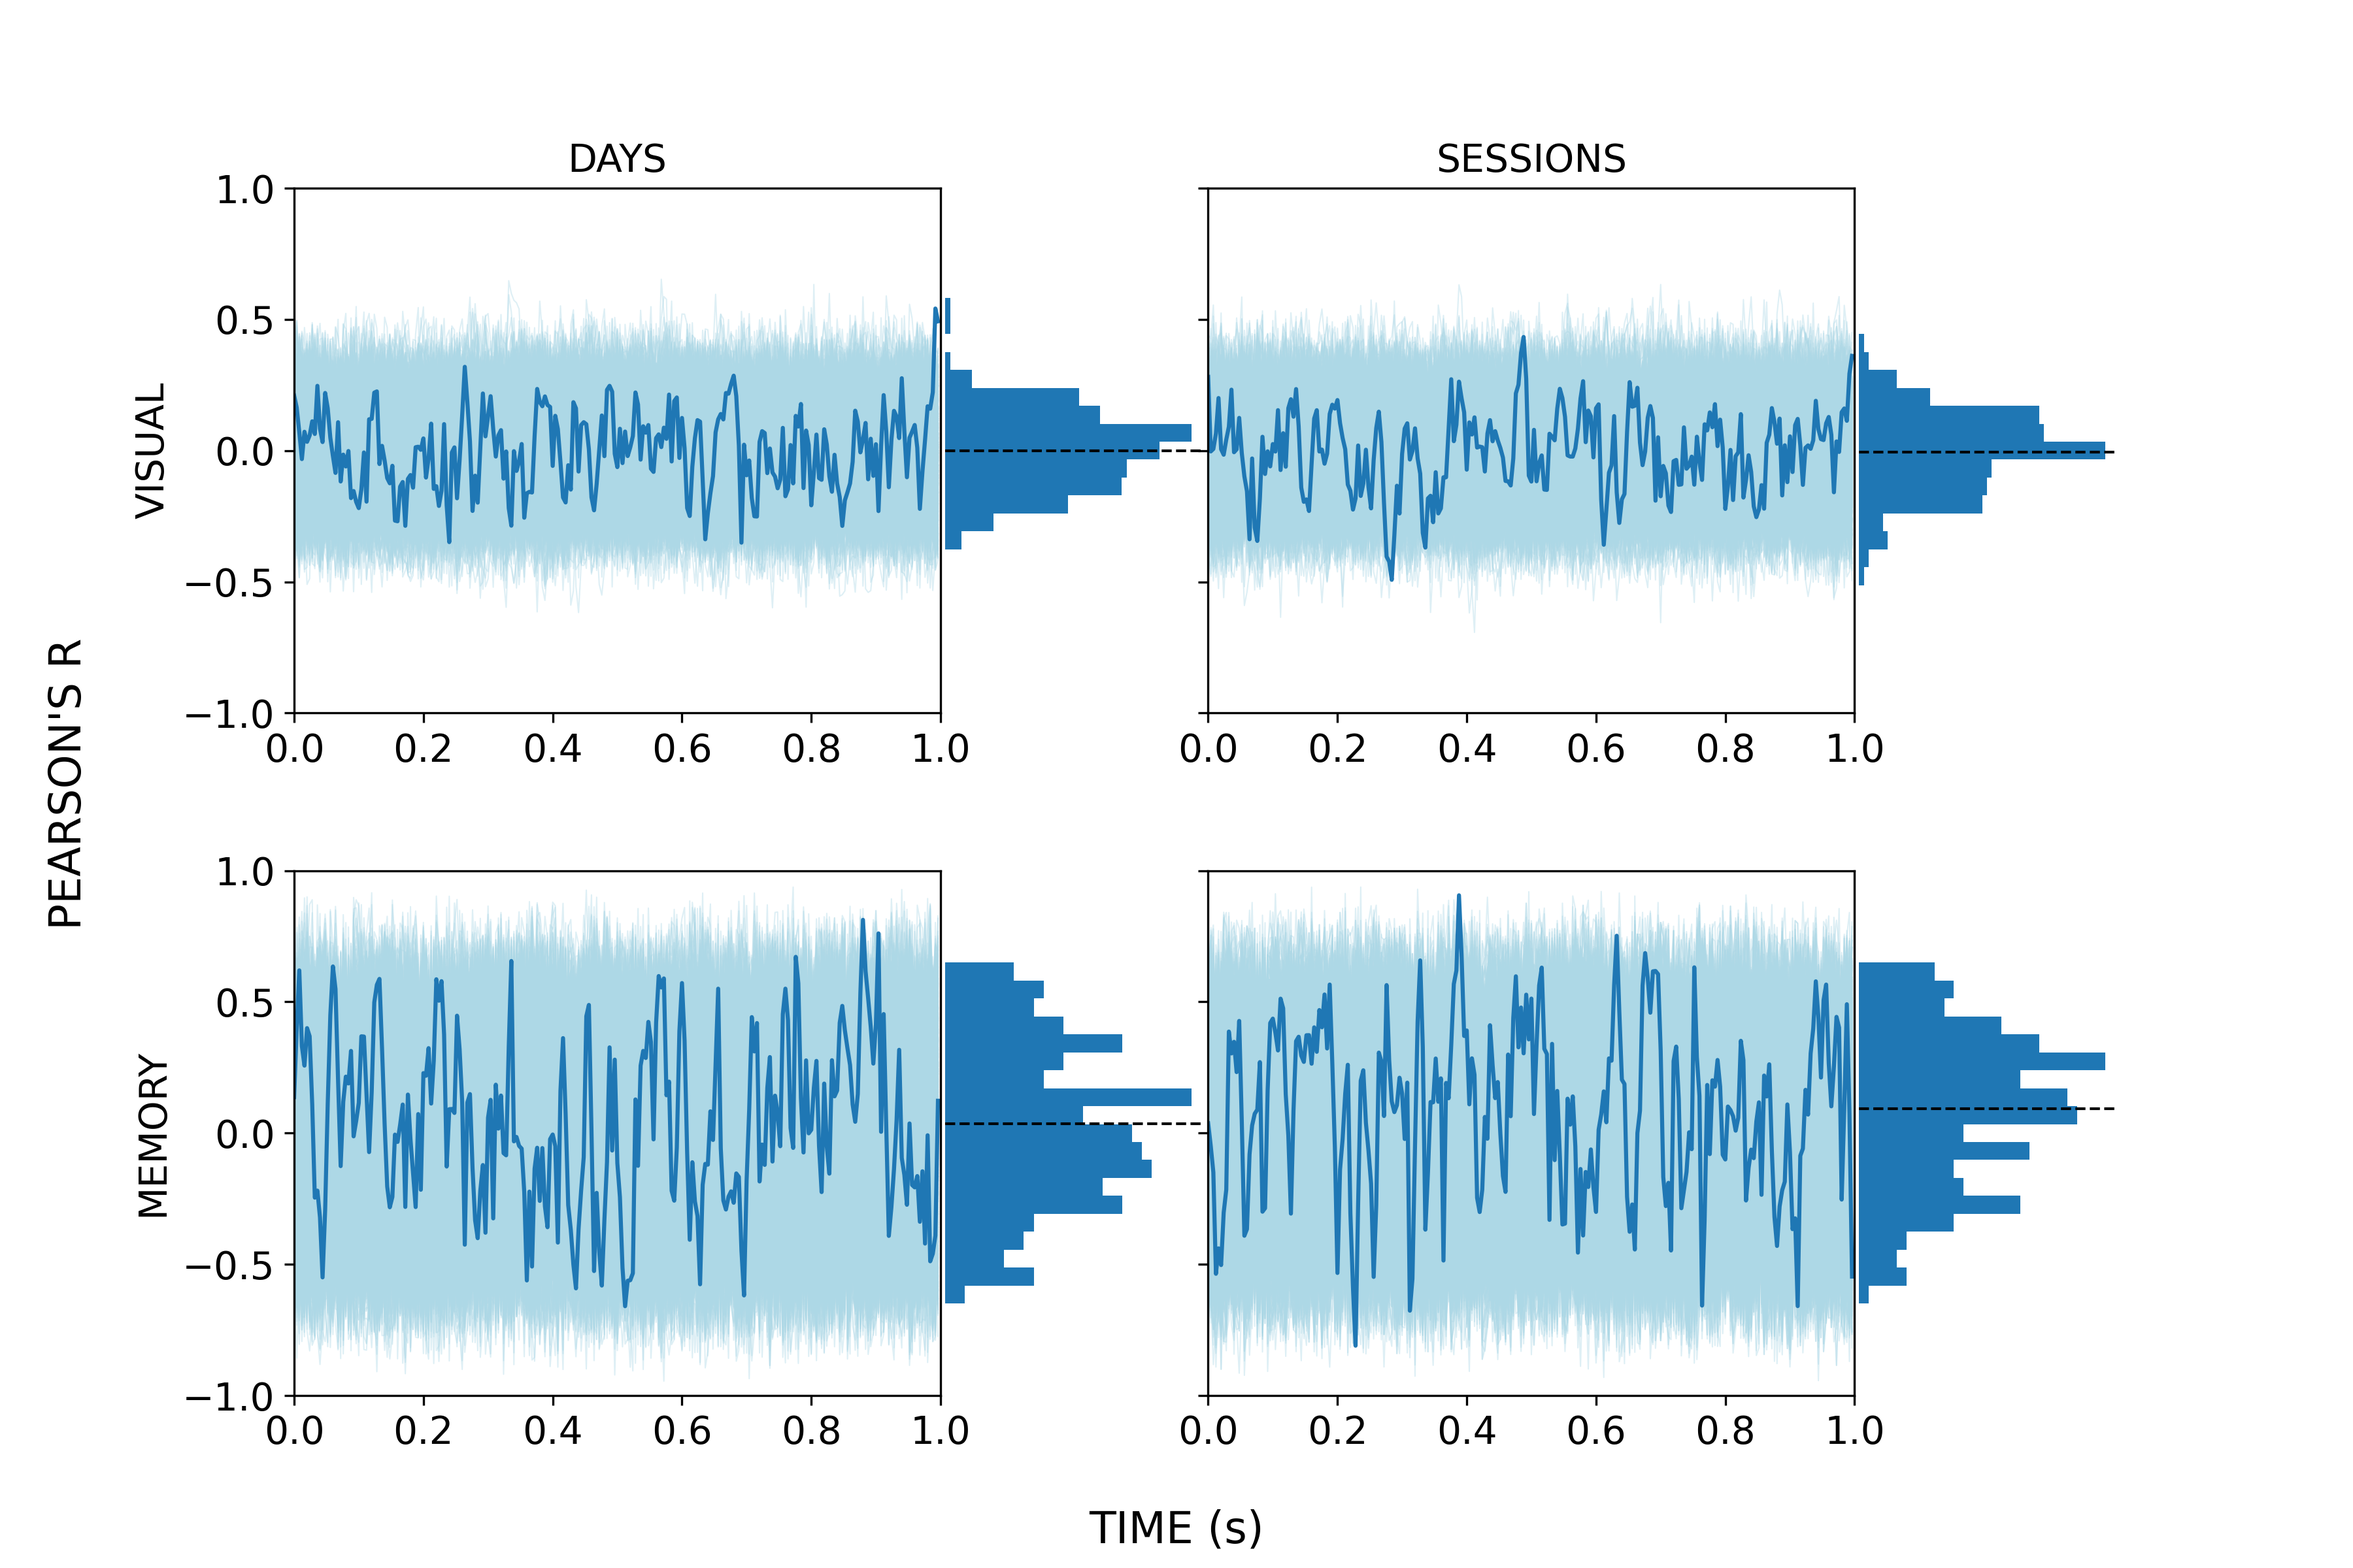
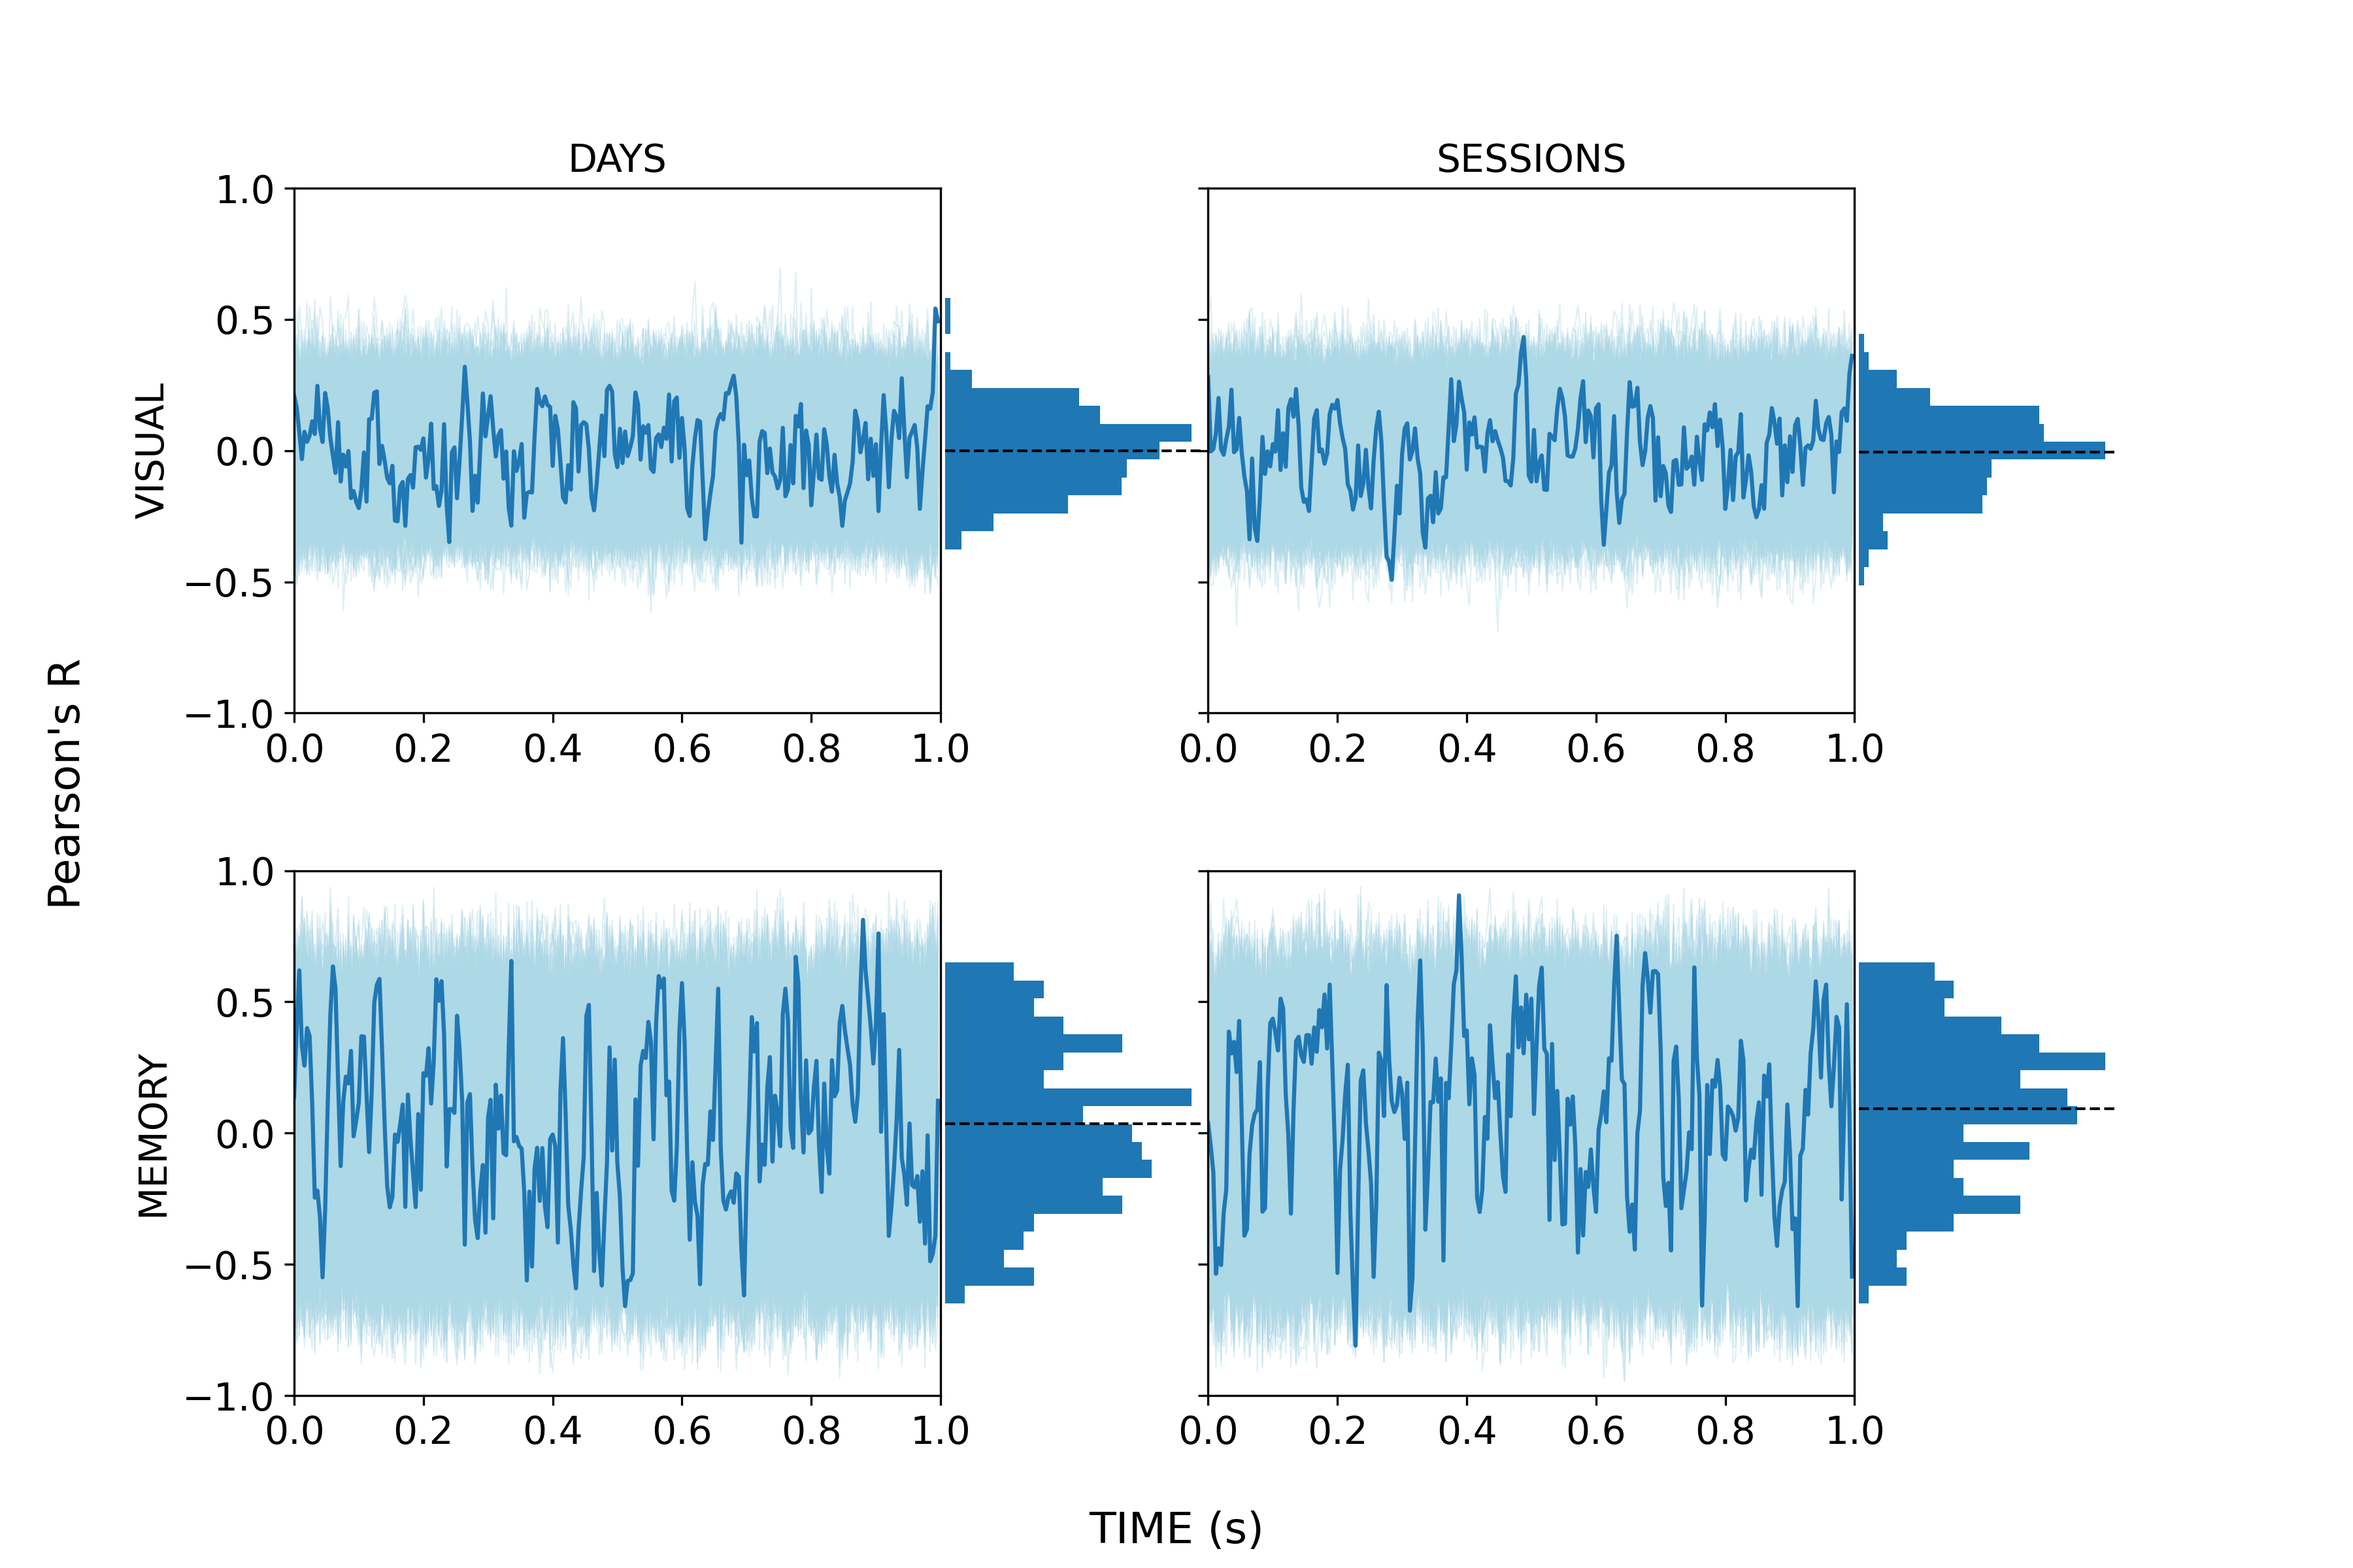
use point biserial correlation for condition

diff --git a/decoding/cross_decoding/dist_acc_corr.py b/decoding/cross_decoding/dist_acc_corr.py
@@ -8,6 +8,7 @@ import numpy as np
 import matplotlib.pyplot as plt
 from pathlib import Path
 from scipy.stats import pearsonr
+from scipy.stats import pointbiserialr
 from pandas import to_datetime
 from mne.stats import permutation_cluster_test
 
@@ -91,7 +92,7 @@ def plot_hist_of_corr(ax, corr, bins, color="lightblue", y_lim=(-0.5, 0.5)):
     # limits
     ax.set_ylim(y_lim)
 
-def permute_x_y(X, y, n_perm):
+def permute_x_y(X, y, n_perm, correlation=pearsonr):
      # array for storing actual correlation
     corrs = np.zeros(X.shape[1])
 
@@ -101,7 +102,7 @@ def permute_x_y(X, y, n_perm):
     # loop over time points
     for t in range(X.shape[1]):
         # actual correlation
-        corrs[t], _ = pearsonr(X[:, t], y)
+        corrs[t], _ = correlation(X[:, t], y)
 
     # loop over all permutations
     for n in range(n_perm):
@@ -136,12 +137,12 @@ def permutation_test(X, y, n_perm):
         
     return corrs, permutations_corr, pvals
 
-def cluster_permutation_test_mne(X, y, n_perm):
+def cluster_permutation_test_mne(X, y, n_perm, correlation=pearsonr):
     """
     Uses the MNE python function to conduct a cluster permutation test
     """
 
-    corrs, permutations_corr = permute_x_y(X, y, n_perm)
+    corrs, permutations_corr = permute_x_y(X, y, n_perm, correlation = correlation)
 
     # reshape corrs
     corrs = corrs.reshape(1, -1)
@@ -154,7 +155,7 @@ def cluster_permutation_test_mne(X, y, n_perm):
     
     return corrs, permutations_corr, clusters, cluster_p_values
     
-def plot_corr_hist_cond(acc, save_path = None, corr_color="C0", perm_color="lightblue", alpha=0.05, cluster=False, n_perm=1000):
+def plot_corr_hist_cond(acc, save_path = None, corr_color="C0", perm_color="lightblue", alpha=0.05, cluster=False, n_perm=1000, correlation=pointbiserialr):
 
     # prep x and y
     dist = get_distance_matrix([0, 0, 0, 0, 0, 0, 0, 1, 1, 1, 1])
@@ -166,7 +167,7 @@ def plot_corr_hist_cond(acc, save_path = None, corr_color="C0", perm_color="ligh
     if not cluster:
         corr, all_perm, pvals = permutation_test(X, y, n_perm)
     else:
-        corr, all_perm, clusters, pvals_tmp = cluster_permutation_test_mne(X, y, n_perm)
+        corr, all_perm, clusters, pvals_tmp = cluster_permutation_test_mne(X, y, n_perm, correlation=correlation)
         
         # reshape corr
         corr = corr.reshape(-1)
@@ -208,7 +209,7 @@ def plot_corr_hist_cond(acc, save_path = None, corr_color="C0", perm_color="ligh
 
 
     # add y label
-    ax[0].set_ylabel("PEARSON'S R", fontsize=16)
+    ax[0].set_ylabel("Point biserial correlation", fontsize=16)
 
     # add x label
     ax[0].set_xlabel("TIME (s)", fontsize=16)
@@ -218,7 +219,7 @@ def plot_corr_hist_cond(acc, save_path = None, corr_color="C0", perm_color="ligh
         plt.savefig(save_path)
 
 
-def plot_corr_hist_no_combined(acc, save_path = None, corr_color="C0", perm_color="lightblue", alpha=0.05, cluster=False, n_perm=1000):
+def plot_corr_hist_no_combined(acc, save_path = None, corr_color="C0", perm_color="lightblue", alpha=0.05, cluster=False, n_perm=1000, correlation=pearsonr):
     # only memory
     mem_indices = [7, 8, 9, 10]
     mem_acc = acc[mem_indices, :, :, :][:, mem_indices, :, :]
@@ -260,7 +261,7 @@ def plot_corr_hist_no_combined(acc, save_path = None, corr_color="C0", perm_colo
             if not cluster:
                 corr, all_perm, pvals = permutation_test(X, y, n_perm)
             else:
-                corr, all_perm, clusters, pvals_tmp = cluster_permutation_test_mne(X, y, n_perm)
+                corr, all_perm, clusters, pvals_tmp = cluster_permutation_test_mne(X, y, n_perm, correlation=correlation)
                 
                 # reshape corr
                 corr = corr.reshape(-1)
@@ -294,7 +295,7 @@ def plot_corr_hist_no_combined(acc, save_path = None, corr_color="C0", perm_colo
 
 
     fig.supxlabel("TIME (s)", fontsize=16)
-    fig.supylabel("PEARSON'S R", fontsize=16)
+    fig.supylabel("Pearson's R", fontsize=16)
 
     
     # first column y label
@@ -329,5 +330,6 @@ if __name__ == "__main__":
         acc, 
         save_path=plot_path / "corr_acc_dist_cond.png",
         alpha = alpha,
-        cluster=True
+        cluster=True,
+        correlation=pointbiserialr
         )
